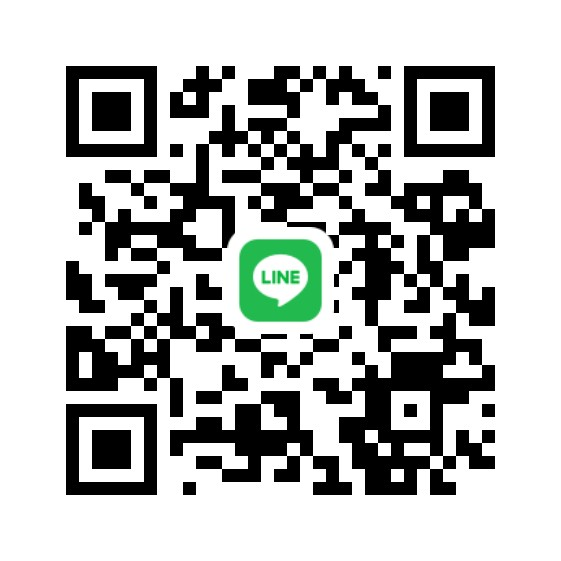
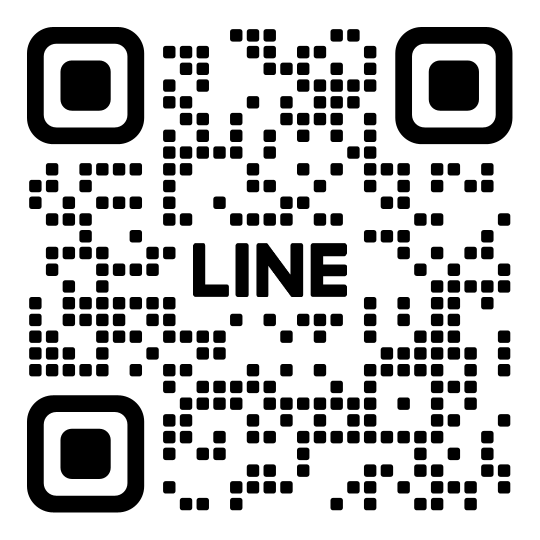
feat: embed official LINE OA QR code and Google Maps store location with share link

diff --git a/image.html b/image.html
@@ -816,7 +816,31 @@ table.ftable{width:100%;border-collapse:collapse;font-size:13.5px;min-width:640p
             <div>✉ <b style="color:#fff">อีเมล:</b> kmz.miximage@gmail.com</div>
             <div>🕒 <b style="color:#fff">เวลาบริการออนไลน์:</b> 10:00 – 22:00 น. ทุกวัน</div>
           </div>
-          <a id="oaDirectLink" href="https://line.me/R/ti/p/@919zkplo" target="_blank" rel="noopener" class="btn line" style="width:100%">
+          
+          <!-- Official LINE OA QR Code -->
+          <div class="line-qr-wrap" style="display:flex;align-items:center;gap:14px;background:#0d0d12;padding:12px 14px;border-radius:14px;border:1px solid var(--line);margin:14px 0">
+            <a href="https://line.me/R/ti/p/@919zkplo" target="_blank" rel="noopener" style="flex-shrink:0" title="คลิกเพื่อแอด LINE OA: @919zkplo">
+              <img src="https://qr-official.line.me/gs/M_919zkplo_BW.png?oat_content=qr" onerror="this.onerror=null;this.src='assets/line-qr.png'" alt="LINE Official Account @919zkplo" style="width:108px;height:108px;border-radius:10px;background:#fff;padding:6px;display:block;box-shadow:0 6px 18px rgba(0,0,0,.6);object-fit:contain">
+            </a>
+            <div>
+              <div style="font-size:11px;color:#35d489;font-weight:700;letter-spacing:.06em;text-transform:uppercase">สแกนเพิ่มเพื่อน LINE OA</div>
+              <div style="font-size:16px;font-weight:700;color:#fff;margin:2px 0">ID: <code style="color:#35d489">@919zkplo</code></div>
+              <div style="font-size:12px;color:var(--muted);line-height:1.4">สแกนผ่านกล้องมือถือ เพื่อส่งภาพหรือปรึกษากับทางร้านได้ทันที</div>
+            </div>
+          </div>
+
+          <!-- Official Google Maps Store Location -->
+          <div class="store-map-card" style="margin-top:14px;padding-top:14px;border-top:1px dashed var(--line)">
+            <div style="display:flex;justify-content:space-between;align-items:center;margin-bottom:8px">
+              <span style="font-size:12.5px;font-weight:600;color:rgb(var(--gold))">📍 แผนที่หน้าร้าน (Google Maps)</span>
+              <a href="https://share.google/Uw6oxw9le0qcjiy1S" target="_blank" rel="noopener" style="font-size:12px;color:rgb(var(--cyan));text-decoration:underline">เปิดแอป Maps ↗</a>
+            </div>
+            <div style="width:100%;height:190px;border-radius:12px;overflow:hidden;border:1px solid var(--line);background:#000;box-shadow:0 4px 16px rgba(0,0,0,.4)">
+              <iframe src="https://www.google.com/maps/embed?pb=!1m18!1m12!1m3!1d3834.463108576925!2d103.11919167575981!3d16.041440440179915!2m3!1f0!2f0!3f0!3m2!1i1024!2i768!4f13.1!3m3!1m2!1s0x311873567a638709%3A0x681990a47c6a6c39!2zTUlYIEltYWdlIEFydCAmIEF1ZGlvICjguKrguKPguYnguLLguIfguKDguLLguJ4p!5e0!3m2!1sth!2sth!4v1793299689087!5m2!1sth!2sth" width="100%" height="100%" style="border:0;" allowfullscreen="" loading="lazy" referrerpolicy="strict-origin-when-cross-origin" title="แผนที่ร้าน MIX Image Art & Audio (สร้างภาพ)"></iframe>
+            </div>
+          </div>
+
+<a id="oaDirectLink" href="https://line.me/R/ti/p/@919zkplo" target="_blank" rel="noopener" class="btn line" style="width:100%">
             แอด LINE OA: @919zkplo เพื่อคุยกับช่างโดยตรง
           </a>
         </div>

diff --git a/index.html b/index.html
@@ -816,7 +816,31 @@ table.ftable{width:100%;border-collapse:collapse;font-size:13.5px;min-width:640p
             <div>✉ <b style="color:#fff">อีเมล:</b> kmz.miximage@gmail.com</div>
             <div>🕒 <b style="color:#fff">เวลาบริการออนไลน์:</b> 10:00 – 22:00 น. ทุกวัน</div>
           </div>
-          <a id="oaDirectLink" href="https://line.me/R/ti/p/@919zkplo" target="_blank" rel="noopener" class="btn line" style="width:100%">
+          
+          <!-- Official LINE OA QR Code -->
+          <div class="line-qr-wrap" style="display:flex;align-items:center;gap:14px;background:#0d0d12;padding:12px 14px;border-radius:14px;border:1px solid var(--line);margin:14px 0">
+            <a href="https://line.me/R/ti/p/@919zkplo" target="_blank" rel="noopener" style="flex-shrink:0" title="คลิกเพื่อแอด LINE OA: @919zkplo">
+              <img src="https://qr-official.line.me/gs/M_919zkplo_BW.png?oat_content=qr" onerror="this.onerror=null;this.src='assets/line-qr.png'" alt="LINE Official Account @919zkplo" style="width:108px;height:108px;border-radius:10px;background:#fff;padding:6px;display:block;box-shadow:0 6px 18px rgba(0,0,0,.6);object-fit:contain">
+            </a>
+            <div>
+              <div style="font-size:11px;color:#35d489;font-weight:700;letter-spacing:.06em;text-transform:uppercase">สแกนเพิ่มเพื่อน LINE OA</div>
+              <div style="font-size:16px;font-weight:700;color:#fff;margin:2px 0">ID: <code style="color:#35d489">@919zkplo</code></div>
+              <div style="font-size:12px;color:var(--muted);line-height:1.4">สแกนผ่านกล้องมือถือ เพื่อส่งภาพหรือปรึกษากับทางร้านได้ทันที</div>
+            </div>
+          </div>
+
+          <!-- Official Google Maps Store Location -->
+          <div class="store-map-card" style="margin-top:14px;padding-top:14px;border-top:1px dashed var(--line)">
+            <div style="display:flex;justify-content:space-between;align-items:center;margin-bottom:8px">
+              <span style="font-size:12.5px;font-weight:600;color:rgb(var(--gold))">📍 แผนที่หน้าร้าน (Google Maps)</span>
+              <a href="https://share.google/Uw6oxw9le0qcjiy1S" target="_blank" rel="noopener" style="font-size:12px;color:rgb(var(--cyan));text-decoration:underline">เปิดแอป Maps ↗</a>
+            </div>
+            <div style="width:100%;height:190px;border-radius:12px;overflow:hidden;border:1px solid var(--line);background:#000;box-shadow:0 4px 16px rgba(0,0,0,.4)">
+              <iframe src="https://www.google.com/maps/embed?pb=!1m18!1m12!1m3!1d3834.463108576925!2d103.11919167575981!3d16.041440440179915!2m3!1f0!2f0!3f0!3m2!1i1024!2i768!4f13.1!3m3!1m2!1s0x311873567a638709%3A0x681990a47c6a6c39!2zTUlYIEltYWdlIEFydCAmIEF1ZGlvICjguKrguKPguYnguLLguIfguKDguLLguJ4p!5e0!3m2!1sth!2sth!4v1793299689087!5m2!1sth!2sth" width="100%" height="100%" style="border:0;" allowfullscreen="" loading="lazy" referrerpolicy="strict-origin-when-cross-origin" title="แผนที่ร้าน MIX Image Art & Audio (สร้างภาพ)"></iframe>
+            </div>
+          </div>
+
+<a id="oaDirectLink" href="https://line.me/R/ti/p/@919zkplo" target="_blank" rel="noopener" class="btn line" style="width:100%">
             แอด LINE OA: @919zkplo เพื่อคุยกับช่างโดยตรง
           </a>
         </div>

diff --git a/miximage-art-street.html b/miximage-art-street.html
@@ -816,7 +816,31 @@ table.ftable{width:100%;border-collapse:collapse;font-size:13.5px;min-width:640p
             <div>✉ <b style="color:#fff">อีเมล:</b> kmz.miximage@gmail.com</div>
             <div>🕒 <b style="color:#fff">เวลาบริการออนไลน์:</b> 10:00 – 22:00 น. ทุกวัน</div>
           </div>
-          <a id="oaDirectLink" href="https://line.me/R/ti/p/@919zkplo" target="_blank" rel="noopener" class="btn line" style="width:100%">
+          
+          <!-- Official LINE OA QR Code -->
+          <div class="line-qr-wrap" style="display:flex;align-items:center;gap:14px;background:#0d0d12;padding:12px 14px;border-radius:14px;border:1px solid var(--line);margin:14px 0">
+            <a href="https://line.me/R/ti/p/@919zkplo" target="_blank" rel="noopener" style="flex-shrink:0" title="คลิกเพื่อแอด LINE OA: @919zkplo">
+              <img src="https://qr-official.line.me/gs/M_919zkplo_BW.png?oat_content=qr" onerror="this.onerror=null;this.src='assets/line-qr.png'" alt="LINE Official Account @919zkplo" style="width:108px;height:108px;border-radius:10px;background:#fff;padding:6px;display:block;box-shadow:0 6px 18px rgba(0,0,0,.6);object-fit:contain">
+            </a>
+            <div>
+              <div style="font-size:11px;color:#35d489;font-weight:700;letter-spacing:.06em;text-transform:uppercase">สแกนเพิ่มเพื่อน LINE OA</div>
+              <div style="font-size:16px;font-weight:700;color:#fff;margin:2px 0">ID: <code style="color:#35d489">@919zkplo</code></div>
+              <div style="font-size:12px;color:var(--muted);line-height:1.4">สแกนผ่านกล้องมือถือ เพื่อส่งภาพหรือปรึกษากับทางร้านได้ทันที</div>
+            </div>
+          </div>
+
+          <!-- Official Google Maps Store Location -->
+          <div class="store-map-card" style="margin-top:14px;padding-top:14px;border-top:1px dashed var(--line)">
+            <div style="display:flex;justify-content:space-between;align-items:center;margin-bottom:8px">
+              <span style="font-size:12.5px;font-weight:600;color:rgb(var(--gold))">📍 แผนที่หน้าร้าน (Google Maps)</span>
+              <a href="https://share.google/Uw6oxw9le0qcjiy1S" target="_blank" rel="noopener" style="font-size:12px;color:rgb(var(--cyan));text-decoration:underline">เปิดแอป Maps ↗</a>
+            </div>
+            <div style="width:100%;height:190px;border-radius:12px;overflow:hidden;border:1px solid var(--line);background:#000;box-shadow:0 4px 16px rgba(0,0,0,.4)">
+              <iframe src="https://www.google.com/maps/embed?pb=!1m18!1m12!1m3!1d3834.463108576925!2d103.11919167575981!3d16.041440440179915!2m3!1f0!2f0!3f0!3m2!1i1024!2i768!4f13.1!3m3!1m2!1s0x311873567a638709%3A0x681990a47c6a6c39!2zTUlYIEltYWdlIEFydCAmIEF1ZGlvICjguKrguKPguYnguLLguIfguKDguLLguJ4p!5e0!3m2!1sth!2sth!4v1793299689087!5m2!1sth!2sth" width="100%" height="100%" style="border:0;" allowfullscreen="" loading="lazy" referrerpolicy="strict-origin-when-cross-origin" title="แผนที่ร้าน MIX Image Art & Audio (สร้างภาพ)"></iframe>
+            </div>
+          </div>
+
+<a id="oaDirectLink" href="https://line.me/R/ti/p/@919zkplo" target="_blank" rel="noopener" class="btn line" style="width:100%">
             แอด LINE OA: @919zkplo เพื่อคุยกับช่างโดยตรง
           </a>
         </div>

diff --git a/miximage_art_print.html b/miximage_art_print.html
@@ -816,7 +816,31 @@ table.ftable{width:100%;border-collapse:collapse;font-size:13.5px;min-width:640p
             <div>✉ <b style="color:#fff">อีเมล:</b> kmz.miximage@gmail.com</div>
             <div>🕒 <b style="color:#fff">เวลาบริการออนไลน์:</b> 10:00 – 22:00 น. ทุกวัน</div>
           </div>
-          <a id="oaDirectLink" href="https://line.me/R/ti/p/@919zkplo" target="_blank" rel="noopener" class="btn line" style="width:100%">
+          
+          <!-- Official LINE OA QR Code -->
+          <div class="line-qr-wrap" style="display:flex;align-items:center;gap:14px;background:#0d0d12;padding:12px 14px;border-radius:14px;border:1px solid var(--line);margin:14px 0">
+            <a href="https://line.me/R/ti/p/@919zkplo" target="_blank" rel="noopener" style="flex-shrink:0" title="คลิกเพื่อแอด LINE OA: @919zkplo">
+              <img src="https://qr-official.line.me/gs/M_919zkplo_BW.png?oat_content=qr" onerror="this.onerror=null;this.src='assets/line-qr.png'" alt="LINE Official Account @919zkplo" style="width:108px;height:108px;border-radius:10px;background:#fff;padding:6px;display:block;box-shadow:0 6px 18px rgba(0,0,0,.6);object-fit:contain">
+            </a>
+            <div>
+              <div style="font-size:11px;color:#35d489;font-weight:700;letter-spacing:.06em;text-transform:uppercase">สแกนเพิ่มเพื่อน LINE OA</div>
+              <div style="font-size:16px;font-weight:700;color:#fff;margin:2px 0">ID: <code style="color:#35d489">@919zkplo</code></div>
+              <div style="font-size:12px;color:var(--muted);line-height:1.4">สแกนผ่านกล้องมือถือ เพื่อส่งภาพหรือปรึกษากับทางร้านได้ทันที</div>
+            </div>
+          </div>
+
+          <!-- Official Google Maps Store Location -->
+          <div class="store-map-card" style="margin-top:14px;padding-top:14px;border-top:1px dashed var(--line)">
+            <div style="display:flex;justify-content:space-between;align-items:center;margin-bottom:8px">
+              <span style="font-size:12.5px;font-weight:600;color:rgb(var(--gold))">📍 แผนที่หน้าร้าน (Google Maps)</span>
+              <a href="https://share.google/Uw6oxw9le0qcjiy1S" target="_blank" rel="noopener" style="font-size:12px;color:rgb(var(--cyan));text-decoration:underline">เปิดแอป Maps ↗</a>
+            </div>
+            <div style="width:100%;height:190px;border-radius:12px;overflow:hidden;border:1px solid var(--line);background:#000;box-shadow:0 4px 16px rgba(0,0,0,.4)">
+              <iframe src="https://www.google.com/maps/embed?pb=!1m18!1m12!1m3!1d3834.463108576925!2d103.11919167575981!3d16.041440440179915!2m3!1f0!2f0!3f0!3m2!1i1024!2i768!4f13.1!3m3!1m2!1s0x311873567a638709%3A0x681990a47c6a6c39!2zTUlYIEltYWdlIEFydCAmIEF1ZGlvICjguKrguKPguYnguLLguIfguKDguLLguJ4p!5e0!3m2!1sth!2sth!4v1793299689087!5m2!1sth!2sth" width="100%" height="100%" style="border:0;" allowfullscreen="" loading="lazy" referrerpolicy="strict-origin-when-cross-origin" title="แผนที่ร้าน MIX Image Art & Audio (สร้างภาพ)"></iframe>
+            </div>
+          </div>
+
+<a id="oaDirectLink" href="https://line.me/R/ti/p/@919zkplo" target="_blank" rel="noopener" class="btn line" style="width:100%">
             แอด LINE OA: @919zkplo เพื่อคุยกับช่างโดยตรง
           </a>
         </div>

diff --git a/miximage-audio-street.html b/miximage-audio-street.html
@@ -586,7 +586,31 @@ input[type=search]:focus{border-color:rgb(var(--accent))}
             <div>✉ <b style="color:#fff">อีเมล:</b> kmz.miximage@gmail.com</div>
             <div>🕒 <b style="color:#fff">เวลาบริการออนไลน์:</b> 10:00 – 22:00 น. ทุกวัน</div>
           </div>
-          <a href="https://line.me/R/ti/p/@919zkplo" target="_blank" rel="noopener" class="btn line" style="width:100%">
+          
+          <!-- Official LINE OA QR Code -->
+          <div class="line-qr-wrap" style="display:flex;align-items:center;gap:14px;background:#0d0d12;padding:12px 14px;border-radius:14px;border:1px solid var(--line);margin:14px 0">
+            <a href="https://line.me/R/ti/p/@919zkplo" target="_blank" rel="noopener" style="flex-shrink:0" title="คลิกเพื่อแอด LINE OA: @919zkplo">
+              <img src="https://qr-official.line.me/gs/M_919zkplo_BW.png?oat_content=qr" onerror="this.onerror=null;this.src='assets/line-qr.png'" alt="LINE Official Account @919zkplo" style="width:108px;height:108px;border-radius:10px;background:#fff;padding:6px;display:block;box-shadow:0 6px 18px rgba(0,0,0,.6);object-fit:contain">
+            </a>
+            <div>
+              <div style="font-size:11px;color:#35d489;font-weight:700;letter-spacing:.06em;text-transform:uppercase">สแกนเพิ่มเพื่อน LINE OA</div>
+              <div style="font-size:16px;font-weight:700;color:#fff;margin:2px 0">ID: <code style="color:#35d489">@919zkplo</code></div>
+              <div style="font-size:12px;color:var(--muted);line-height:1.4">สแกนผ่านกล้องมือถือ เพื่อส่งภาพหรือปรึกษากับทางร้านได้ทันที</div>
+            </div>
+          </div>
+
+          <!-- Official Google Maps Store Location -->
+          <div class="store-map-card" style="margin-top:14px;padding-top:14px;border-top:1px dashed var(--line)">
+            <div style="display:flex;justify-content:space-between;align-items:center;margin-bottom:8px">
+              <span style="font-size:12.5px;font-weight:600;color:rgb(var(--gold))">📍 แผนที่หน้าร้าน (Google Maps)</span>
+              <a href="https://share.google/Uw6oxw9le0qcjiy1S" target="_blank" rel="noopener" style="font-size:12px;color:rgb(var(--cyan));text-decoration:underline">เปิดแอป Maps ↗</a>
+            </div>
+            <div style="width:100%;height:190px;border-radius:12px;overflow:hidden;border:1px solid var(--line);background:#000;box-shadow:0 4px 16px rgba(0,0,0,.4)">
+              <iframe src="https://www.google.com/maps/embed?pb=!1m18!1m12!1m3!1d3834.463108576925!2d103.11919167575981!3d16.041440440179915!2m3!1f0!2f0!3f0!3m2!1i1024!2i768!4f13.1!3m3!1m2!1s0x311873567a638709%3A0x681990a47c6a6c39!2zTUlYIEltYWdlIEFydCAmIEF1ZGlvICjguKrguKPguYnguLLguIfguKDguLLguJ4p!5e0!3m2!1sth!2sth!4v1793299689087!5m2!1sth!2sth" width="100%" height="100%" style="border:0;" allowfullscreen="" loading="lazy" referrerpolicy="strict-origin-when-cross-origin" title="แผนที่ร้าน MIX Image Art & Audio (สร้างภาพ)"></iframe>
+            </div>
+          </div>
+
+<a href="https://line.me/R/ti/p/@919zkplo" target="_blank" rel="noopener" class="btn line" style="width:100%">
             แอด LINE OA: @919zkplo เพื่อคุยกับโปรดิวเซอร์
           </a>
         </div>

diff --git a/miximage_audio_studio.html b/miximage_audio_studio.html
@@ -586,7 +586,31 @@ input[type=search]:focus{border-color:rgb(var(--accent))}
             <div>✉ <b style="color:#fff">อีเมล:</b> kmz.miximage@gmail.com</div>
             <div>🕒 <b style="color:#fff">เวลาบริการออนไลน์:</b> 10:00 – 22:00 น. ทุกวัน</div>
           </div>
-          <a href="https://line.me/R/ti/p/@919zkplo" target="_blank" rel="noopener" class="btn line" style="width:100%">
+          
+          <!-- Official LINE OA QR Code -->
+          <div class="line-qr-wrap" style="display:flex;align-items:center;gap:14px;background:#0d0d12;padding:12px 14px;border-radius:14px;border:1px solid var(--line);margin:14px 0">
+            <a href="https://line.me/R/ti/p/@919zkplo" target="_blank" rel="noopener" style="flex-shrink:0" title="คลิกเพื่อแอด LINE OA: @919zkplo">
+              <img src="https://qr-official.line.me/gs/M_919zkplo_BW.png?oat_content=qr" onerror="this.onerror=null;this.src='assets/line-qr.png'" alt="LINE Official Account @919zkplo" style="width:108px;height:108px;border-radius:10px;background:#fff;padding:6px;display:block;box-shadow:0 6px 18px rgba(0,0,0,.6);object-fit:contain">
+            </a>
+            <div>
+              <div style="font-size:11px;color:#35d489;font-weight:700;letter-spacing:.06em;text-transform:uppercase">สแกนเพิ่มเพื่อน LINE OA</div>
+              <div style="font-size:16px;font-weight:700;color:#fff;margin:2px 0">ID: <code style="color:#35d489">@919zkplo</code></div>
+              <div style="font-size:12px;color:var(--muted);line-height:1.4">สแกนผ่านกล้องมือถือ เพื่อส่งภาพหรือปรึกษากับทางร้านได้ทันที</div>
+            </div>
+          </div>
+
+          <!-- Official Google Maps Store Location -->
+          <div class="store-map-card" style="margin-top:14px;padding-top:14px;border-top:1px dashed var(--line)">
+            <div style="display:flex;justify-content:space-between;align-items:center;margin-bottom:8px">
+              <span style="font-size:12.5px;font-weight:600;color:rgb(var(--gold))">📍 แผนที่หน้าร้าน (Google Maps)</span>
+              <a href="https://share.google/Uw6oxw9le0qcjiy1S" target="_blank" rel="noopener" style="font-size:12px;color:rgb(var(--cyan));text-decoration:underline">เปิดแอป Maps ↗</a>
+            </div>
+            <div style="width:100%;height:190px;border-radius:12px;overflow:hidden;border:1px solid var(--line);background:#000;box-shadow:0 4px 16px rgba(0,0,0,.4)">
+              <iframe src="https://www.google.com/maps/embed?pb=!1m18!1m12!1m3!1d3834.463108576925!2d103.11919167575981!3d16.041440440179915!2m3!1f0!2f0!3f0!3m2!1i1024!2i768!4f13.1!3m3!1m2!1s0x311873567a638709%3A0x681990a47c6a6c39!2zTUlYIEltYWdlIEFydCAmIEF1ZGlvICjguKrguKPguYnguLLguIfguKDguLLguJ4p!5e0!3m2!1sth!2sth!4v1793299689087!5m2!1sth!2sth" width="100%" height="100%" style="border:0;" allowfullscreen="" loading="lazy" referrerpolicy="strict-origin-when-cross-origin" title="แผนที่ร้าน MIX Image Art & Audio (สร้างภาพ)"></iframe>
+            </div>
+          </div>
+
+<a href="https://line.me/R/ti/p/@919zkplo" target="_blank" rel="noopener" class="btn line" style="width:100%">
             แอด LINE OA: @919zkplo เพื่อคุยกับโปรดิวเซอร์
           </a>
         </div>

diff --git a/music.html b/music.html
@@ -586,7 +586,31 @@ input[type=search]:focus{border-color:rgb(var(--accent))}
             <div>✉ <b style="color:#fff">อีเมล:</b> kmz.miximage@gmail.com</div>
             <div>🕒 <b style="color:#fff">เวลาบริการออนไลน์:</b> 10:00 – 22:00 น. ทุกวัน</div>
           </div>
-          <a href="https://line.me/R/ti/p/@919zkplo" target="_blank" rel="noopener" class="btn line" style="width:100%">
+          
+          <!-- Official LINE OA QR Code -->
+          <div class="line-qr-wrap" style="display:flex;align-items:center;gap:14px;background:#0d0d12;padding:12px 14px;border-radius:14px;border:1px solid var(--line);margin:14px 0">
+            <a href="https://line.me/R/ti/p/@919zkplo" target="_blank" rel="noopener" style="flex-shrink:0" title="คลิกเพื่อแอด LINE OA: @919zkplo">
+              <img src="https://qr-official.line.me/gs/M_919zkplo_BW.png?oat_content=qr" onerror="this.onerror=null;this.src='assets/line-qr.png'" alt="LINE Official Account @919zkplo" style="width:108px;height:108px;border-radius:10px;background:#fff;padding:6px;display:block;box-shadow:0 6px 18px rgba(0,0,0,.6);object-fit:contain">
+            </a>
+            <div>
+              <div style="font-size:11px;color:#35d489;font-weight:700;letter-spacing:.06em;text-transform:uppercase">สแกนเพิ่มเพื่อน LINE OA</div>
+              <div style="font-size:16px;font-weight:700;color:#fff;margin:2px 0">ID: <code style="color:#35d489">@919zkplo</code></div>
+              <div style="font-size:12px;color:var(--muted);line-height:1.4">สแกนผ่านกล้องมือถือ เพื่อส่งภาพหรือปรึกษากับทางร้านได้ทันที</div>
+            </div>
+          </div>
+
+          <!-- Official Google Maps Store Location -->
+          <div class="store-map-card" style="margin-top:14px;padding-top:14px;border-top:1px dashed var(--line)">
+            <div style="display:flex;justify-content:space-between;align-items:center;margin-bottom:8px">
+              <span style="font-size:12.5px;font-weight:600;color:rgb(var(--gold))">📍 แผนที่หน้าร้าน (Google Maps)</span>
+              <a href="https://share.google/Uw6oxw9le0qcjiy1S" target="_blank" rel="noopener" style="font-size:12px;color:rgb(var(--cyan));text-decoration:underline">เปิดแอป Maps ↗</a>
+            </div>
+            <div style="width:100%;height:190px;border-radius:12px;overflow:hidden;border:1px solid var(--line);background:#000;box-shadow:0 4px 16px rgba(0,0,0,.4)">
+              <iframe src="https://www.google.com/maps/embed?pb=!1m18!1m12!1m3!1d3834.463108576925!2d103.11919167575981!3d16.041440440179915!2m3!1f0!2f0!3f0!3m2!1i1024!2i768!4f13.1!3m3!1m2!1s0x311873567a638709%3A0x681990a47c6a6c39!2zTUlYIEltYWdlIEFydCAmIEF1ZGlvICjguKrguKPguYnguLLguIfguKDguLLguJ4p!5e0!3m2!1sth!2sth!4v1793299689087!5m2!1sth!2sth" width="100%" height="100%" style="border:0;" allowfullscreen="" loading="lazy" referrerpolicy="strict-origin-when-cross-origin" title="แผนที่ร้าน MIX Image Art & Audio (สร้างภาพ)"></iframe>
+            </div>
+          </div>
+
+<a href="https://line.me/R/ti/p/@919zkplo" target="_blank" rel="noopener" class="btn line" style="width:100%">
             แอด LINE OA: @919zkplo เพื่อคุยกับโปรดิวเซอร์
           </a>
         </div>
